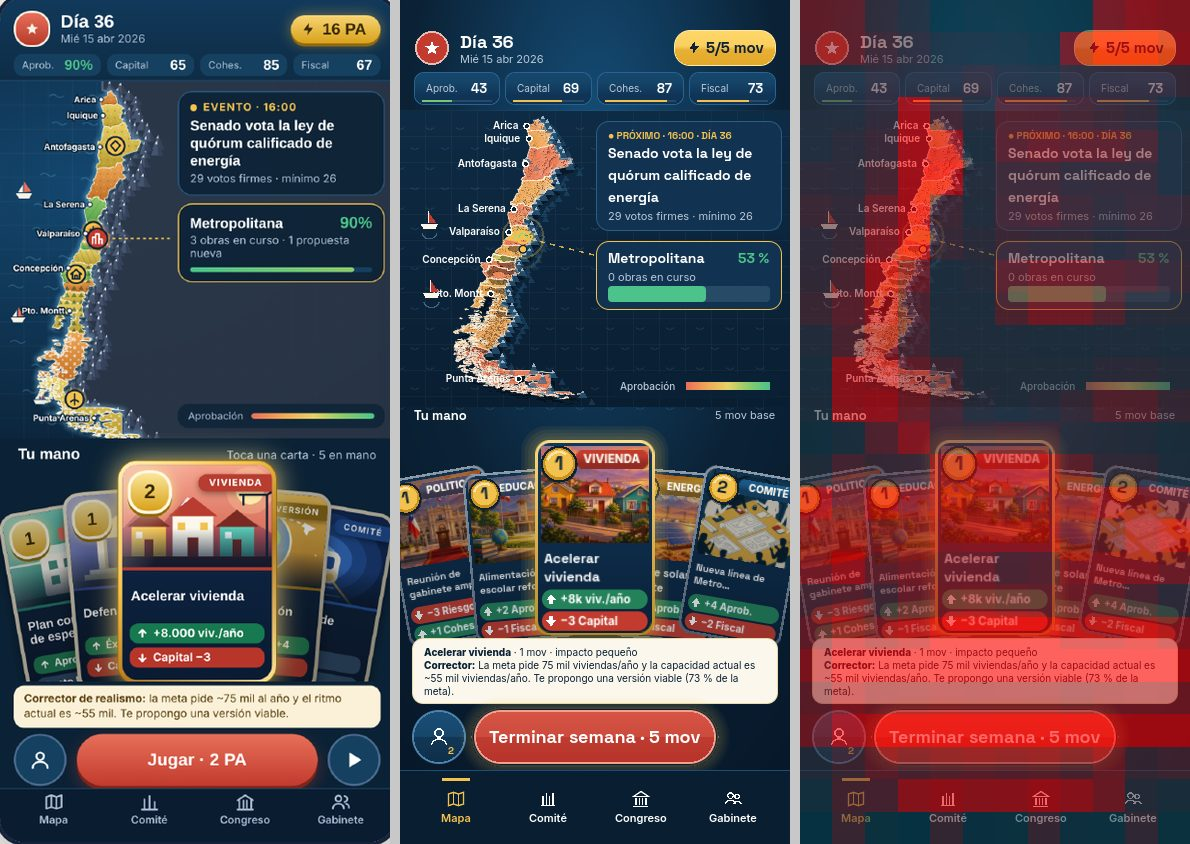
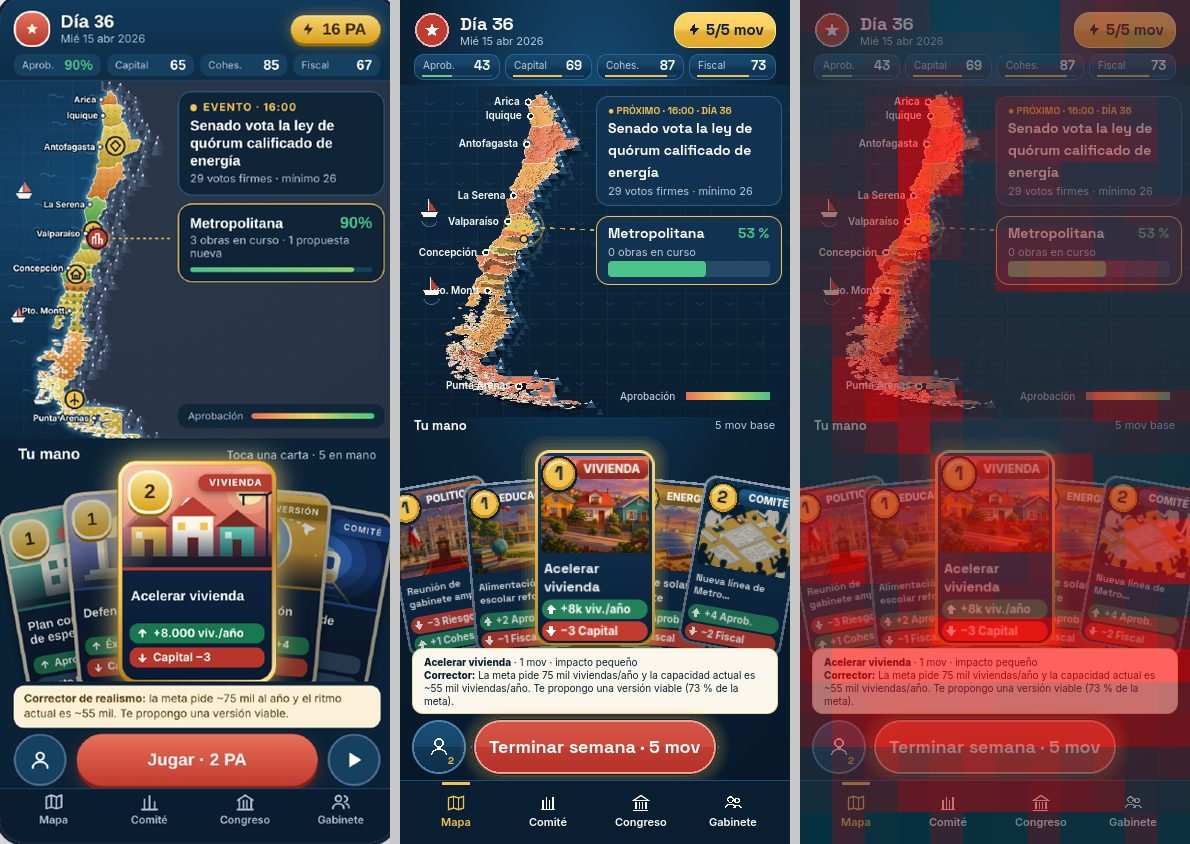
Día más cerca de la maqueta: margen superior por zona segura y chips y barra compactos
La cabecera del día ocupaba 111 px frente a ~82 en la maqueta. El margen
fijo de 30 px pasa a seguir la zona segura del teléfono
(Tema.margen_superior: muesca + 4 px, mínimo 12) y los chips y la barra
inferior pierden relleno (botones ≥ 44 px). Píxeles distintos del día
frente a la maqueta: 43,1 % -> 39,2 %; el mapa gana ~30 px.

Claude-Session: https://claude.ai/code/session_015HWWmkqdrhteNyoiHrGmho

Changed region(s): [[0.3109, 0.0, 1.0, 0.9858], [0.342, 0.4929, 0.4042, 0.5237], [0.4353, 0.955, 0.4664, 0.9858]]

diff --git a/docs/DIFERENCIAS_MAQUETA.md b/docs/DIFERENCIAS_MAQUETA.md
@@ -184,4 +184,11 @@ Ninguna acción pasa de 3 toques; lo que se acumula es la secuencia de eventos. 
 - a) no pedir confirmación al terminar la semana cuando los movimientos que quedan no pagan ninguna carta (toca la decisión PR-02);
 - b) mostrar la cámara revisora en la misma página de la votación cuando el resultado de la primera ya está decidido, lo que ahorraría unos 0,7 toques por semana.
 
+### Cabecera y barra del día más cerca de la maqueta (26-nov-2026)
+La diferencia numérica (`docs/comparacion/DIFERENCIA_MAQUETA.md`) mostraba que la cabecera del día ocupaba 111 px frente a unos 82 en la maqueta, lo que corría todo hacia abajo y achicaba el mapa. Cambios:
+- el margen superior fijo de 30 px pasa a seguir la zona segura del teléfono (`Tema.margen_superior()`: la muesca o cámara más 4 px, mínimo 12);
+- los chips de indicadores se compactan (relleno de 3 y 6 px) y la barra inferior también (2 y 4 px). Los botones siguen ≥ 44 px.
+
+Píxeles distintos del día frente a la maqueta: de 43,1 % a 39,2 %. El mapa gana unos 30 px de alto.
+
 Reglas: todo el movimiento respeta Ajustes › «Animaciones y movimiento» y se apaga en modo headless, así que las pruebas miden siempre el estado final. El azar de las partículas es solo visual y no toca la semilla de la partida. Prueba propia: `tests/test_movimiento.gd`.

diff --git a/docs/comparacion/DIFERENCIA_MAQUETA.md b/docs/comparacion/DIFERENCIA_MAQUETA.md
@@ -7,8 +7,8 @@ comparar pantallas entre sí y ver si un cambio acerca o aleja. Imágenes: `dif_
 
 | Pantalla | Píxeles distintos | ΔE medio | Zona que más difiere | ΔE de esa zona |
 |---|---|---|---|---|
-| dia | 43.1 % | 30.8 | inferior derecha (y ≈ 640–672 px) | 79 |
-| nacion | 28.6 % | 24.4 | superior centro (y ≈ 128–160 px) | 104 |
+| dia | 39.2 % | 27.7 | inferior centro (y ≈ 640–672 px) | 76 |
+| nacion | 29.2 % | 25.0 | superior centro (y ≈ 96–128 px) | 104 |
 | urbano | 23.0 % | 18.5 | superior centro (y ≈ 192–224 px) | 83 |
 | votacion | 22.5 % | 19.4 | inferior izquierda (y ≈ 736–768 px) | 68 |
 | hito | 19.1 % | 15.1 | media derecha (y ≈ 512–544 px) | 83 |
